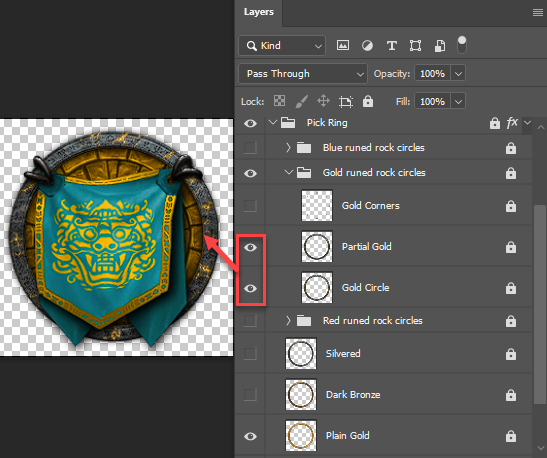
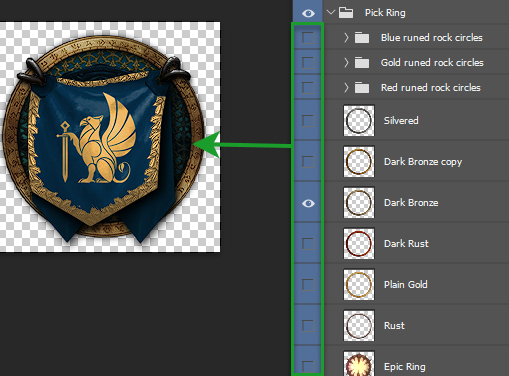
updates

diff --git a/docusaurus.config.js b/docusaurus.config.js
@@ -58,10 +58,10 @@ module.exports = {
             '0 1 2 3',
             '0 1 2 3',
             '0 1 2 3',
-            '0 1 2 .',
-            '0 1 2 .',
-            '0 1 2 .',
-            '0 . . .',
+            '0 1 2 3',
+            '0 1 2 3',
+            '0 1 2 3',
+            '0 1 2 3',
           ],
           items_: [
             {
@@ -108,8 +108,14 @@ module.exports = {
             },
             {
               // 1 level
-              label: 'Journal Templates',
+              label: 'Journals & Posters',
               items: [
+                {
+                  label: 'All Journals',
+                  sublabel: 'Slide Decks for stories',
+                  to: 'docs/photoshop/journals',
+                  icon: 'bookmarks',
+                },
                 {
                   label: 'Adventurer Journal',
                   sublabel: 'Book for travels',
@@ -120,13 +126,7 @@ module.exports = {
                   label: 'FF14 Journal',
                   sublabel: 'Book for Eorzea',
                   to: 'docs/photoshop/final-journal',
-                  icon: 'auto_stories',
-                },
-                {
-                  label: 'Dwarven Journal',
-                  sublabel: 'Book of metal',
-                  to: 'docs/photoshop/dwarf-journal',
-                  icon: 'photo_album',
+                  icon: 'fort',
                 },
                 {
                   label: 'Scrollcase',

diff --git a/docs/photoshop/crest.md b/docs/photoshop/crest.md
@@ -9,18 +9,34 @@ Select existing emblems or add your own!
 
 ## Download and Build
 
-[![PSD](/img/psd.png) Guild Crest Creator](https://drive.google.com/file/d/1g44MIiW2XR0MUIc9FtECNw_pOr3c0ID8/view?usp=sharing) - click to download.
+* [![PSD](/img/psd.png) Epic Guild Crest Creator](https://drive.google.com/file/d/1g44MIiW2XR0MUIc9FtECNw_pOr3c0ID8/view?usp=sharing) - click to download.
+* [![PSD](/img/psd.png) Original Guild Crest Creator](https://drive.google.com/file/d/1wjO6BlDlca6oZVA4jYFTL7nHvv6cBOUc/view?usp=sharing) - click to download.
 
 ![crests](/img/resources/guild/crest.png)
 
 1. Download and open the file.
-1. Select a **Border** from that folder. Double-click and open the group options. Select the Color Overlay option. Change the color to anything. See this example:
+1. In the **Border** group, show/hide a banner border. 
 
-    ![border](/img/resources/guild/crest-color.png)
+    * **Change Color**: Double-click and open the group options. Select the **Color Overlay** option. Select the color block and select any color you like. It will show a preview of the new color. Click **Ok**.
 
-1. Select a **Crest** from the folders. WoW emblems are divided up into many folders. Double-click and open the group options. Select the Color Overlay option. Change the color to anything.
-1. On the **Banner** group, double-click and open the group options. Select the Color Overlay option. Change the color to anything.
-1. Select a **Ring** and show/hide to find the best option.
+        ![border](/img/resources/guild/border-color.png)
+    
+    * **Use Metal**: Turn off or hide the effects on the border layer. Show one of the metals right before the crest group.
+
+        ![metal border](/img/resources/guild/border-metal.png)
+
+1. Select a **Crest** from the folders. WoW emblems are divided up into many folders. Or you can paste a custom icon in this Crest folder. Resize as needed. You have options:
+
+    * **Change Color**: Double-click and open the group options. Select the **Color Overlay** option. Select the color block and select any color you like. It will show a preview of the new color. Click **Ok**.
+
+        ![color crest](/img/resources/guild/crest-color.png)
+
+    * **Use Metal**: Turn off or hide the effects on the crest layer. Show one of the metals right before the crest group. 
+
+        ![metal crest](/img/resources/guild/crest-metal.png)
+
+1. On the **Banner** group, double-click and open the group options. Select the **Color Overlay** option. Select the color block and select any color you like. It will show a preview of the new color. Click **Ok**.
+1. In the **Ring** group, show/hide to find the best option.
 
     ![ring](/img/resources/guild/crest-ring.png)
 
@@ -46,6 +62,7 @@ These crests use existing in-game emblems.
 
 | | | | |
 |--|--|--|--|
+|![Guild](/img/resources/guild/crest-bolts.png) |![Guild](/img/resources/guild/crest-dragon.png) |![Guild](/img/resources/guild/crest-epic-naga.png) |![Guild](/img/resources/guild/crest-skull.png) |
 |![Guild](/img/resources/guild/guild1.png) |![Guild](/img/resources/guild/guild2.png) |![Guild](/img/resources/guild/guild3.png) |![Guild](/img/resources/guild/guild4.png) |
 |![Guild](/img/resources/guild/guild5.png) |![Guild](/img/resources/guild/guild6.png) |![Guild](/img/resources/guild/guild7.png) |![Guild](/img/resources/guild/guild8.png) |
 
@@ -54,5 +71,6 @@ These crests use faction symbols.
 | | | |
 |--|--|--|
 |![Guild](/img/resources/guild/guild-alliance.png) |![Guild](/img/resources/guild/guildhorde.png) |![Guild](/img/resources/guild/guild-argent.png) |
+|![Guild](/img/resources/guild/guild-alliance2.png) |![Guild](/img/resources/guild/guildhorde2.png) |![Guild](/img/resources/guild/guild-argent2.png) |
 
 </div>
